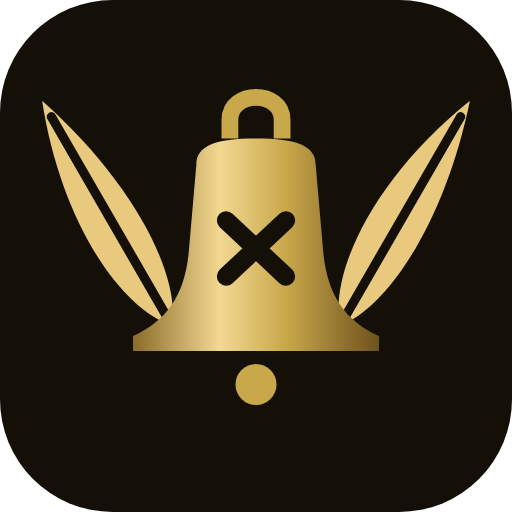
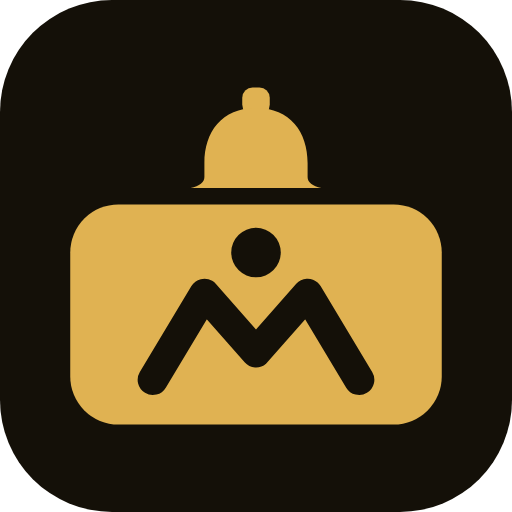
feat: marca maleta com sino e pico, mais próxima de um portal de emprego
A maleta (trabalho) ganha um sino no lugar da alça (o chamado) e, recortado no corpo, o M de montanha que também é uma pessoa de braços erguidos (a vaga conquistada). Desenho chapado em uma cor (token --brand-metal por tema), recortes por máscara, favicon, PNGs, imagem de compartilhamento, ícone e abertura do app refeitos.

diff --git a/src/Monburan.Mobile/wwwroot/index.html b/src/Monburan.Mobile/wwwroot/index.html
@@ -19,21 +19,10 @@
     <div id="app">
         <!-- Tela de abertura: fica até o Blazor montar o app (o conteúdo de #app é substituído) -->
         <div class="app-splash" role="status" aria-label="Carregando o Monburan">
-            <svg class="app-splash__mark" viewBox="20 20 160 168" aria-hidden="true" focusable="false">
-                <!-- "O Chamado" completo: penas com barbas, sino gravado e o mar. Só o sino balança -->
-                <defs><linearGradient id="splash-bell" x1="0" y1="0" x2="1" y2="0"><stop offset="0" class="brand-mark__stop1" /><stop offset=".35" class="brand-mark__stop2" /><stop offset=".62" class="brand-mark__stop3" /><stop offset="1" class="brand-mark__stop4" /></linearGradient></defs>
-                <g transform="translate(76 128) rotate(-30)"><path class="brand-mark__vane" d="M0 -6 C-11 -20 -13 -52 0 -88 C11 -52 10 -20 0 -6 Z" /><path class="brand-mark__rachis" stroke-width="1.6" d="M0 4 L0 -84" /><path class="brand-mark__rachis" stroke-width="1.3" d="M0 -26 L-8 -33 M0 -42 L-9.5 -50 M0 -58 L-7.5 -66 M0 -34 L8 -41 M0 -50 L8.5 -58 M0 -66 L5.5 -73" /></g>
-                <g transform="translate(124 128) rotate(30)"><path class="brand-mark__vane" d="M0 -6 C-11 -20 -13 -52 0 -88 C11 -52 10 -20 0 -6 Z" /><path class="brand-mark__rachis" stroke-width="1.6" d="M0 4 L0 -84" /><path class="brand-mark__rachis" stroke-width="1.3" d="M0 -26 L-8 -33 M0 -42 L-9.5 -50 M0 -58 L-7.5 -66 M0 -34 L8 -41 M0 -50 L8.5 -58 M0 -66 L5.5 -73" /></g>
-                <g class="brand-mark__bell" transform="translate(100 98) scale(1.22) translate(-100 -98)">
-                    <path class="brand-mark__metal-line" stroke-width="3.2" d="M93 68 L93 63 C93 55 107 55 107 63 L107 68" />
-                    <path fill="url(#splash-bell)" d="M84 75 C84 70 89 68 100 68 C111 68 116 70 116 75 L118 98 C119 110 124 117 133 121 L133 125 L67 125 L67 121 C76 117 81 110 82 98 Z" />
-                    <path class="brand-mark__engrave" stroke-width="1" d="M83.6 80 L116.4 80 M83.2 84.5 L116.8 84.5 M80 110 L120 110 M76.5 116 L123.5 116" />
-                    <path class="brand-mark__engrave" stroke-width="3" stroke-linecap="round" d="M93 91 L107 104 M107 91 L93 104" />
-                    <path class="brand-mark__metal-line" stroke-width="3.4" stroke-linecap="round" d="M64 125.5 L136 125.5" />
-                    <circle class="brand-mark__metal" cx="100" cy="133" r="4.4" />
-                </g>
-                <path class="brand-mark__metal-line" stroke-width="2" stroke-linecap="round" d="M44 168 C60 162 76 172 100 166 C124 160 140 172 156 166" />
-                <path class="brand-mark__metal-line" stroke-width="1.2" stroke-linecap="round" opacity=".55" d="M58 176 C72 172 84 179 100 175 C116 171 128 179 142 176" />
+            <svg class="app-splash__mark" viewBox="0 0 64 64" aria-hidden="true" focusable="false">
+                <!-- A marca; só o sino balança -->
+                <defs><mask id="splash-cut" maskUnits="userSpaceOnUse" x="0" y="0" width="64" height="64"><rect width="64" height="64" fill="#fff" /><circle cx="32" cy="30" r="3.6" fill="#000" /><path d="M17 48.5 L24.5 36 L32 44.5 L39.5 36 L47 48.5" fill="none" stroke="#000" stroke-width="4.4" stroke-linecap="round" stroke-linejoin="round" /></mask></defs>
+                <g class="brand-mark__metal" transform="translate(0 1.5)"><g class="brand-mark__bell"><rect x="30" y="6" width="4" height="4" rx="1.5" /><path d="M32 9 C27 9 24.5 12.5 24.5 17 V19 C24.5 19.8 23.8 20.3 22.5 20.6 H41.5 C40.2 20.3 39.5 19.8 39.5 19 V17 C39.5 12.5 37 9 32 9Z" /></g><rect x="5" y="23" width="54" height="32" rx="7" mask="url(#splash-cut)" /></g>
             </svg>
             <p class="app-splash__name">Monburan</p>
             <p class="app-splash__tagline">palavra dada.</p>

diff --git a/src/Monburan.Web/wwwroot/tokens.css b/src/Monburan.Web/wwwroot/tokens.css
@@ -142,15 +142,8 @@
         --neutral-bg: rgb(80 60 30 / 7%);
         --brand-tx: var(--gold-d);
         --brand-bg: var(--gold-soft);
-        /* Marca (O Chamado): no tema claro o sino é bronze escuro, com a gravação em pergaminho */
-        --brand-feather: #8A5500;
-        --brand-rachis: #F8F3E8;
-        --brand-metal: #5A3200;
-        --brand-bell-1: #3E2300;
-        --brand-bell-2: #8A5A1E;
-        --brand-bell-3: #5A3200;
-        --brand-bell-4: #2E1A00;
-        --brand-engrave: #F2EBD9;
+        /* Cor da marca (maleta e sino): bronze no tema claro */
+        --brand-metal: #8A5500;
         --shadow-sm: 0 2px 8px rgb(80 40 0 / 6%);
         --shadow-md: 0 8px 28px rgb(80 40 0 / 10%);
         --shadow-lg: 0 24px 60px rgb(80 40 0 / 14%), 0 4px 16px rgb(80 40 0 / 6%);
@@ -207,15 +200,8 @@
         --neutral-bg: rgb(255 255 255 / 6%);
         --brand-tx: var(--gold-d);
         --brand-bg: var(--gold-soft);
-        /* Marca (O Chamado): sino de ouro polido, penas claras e gravação em tinta */
-        --brand-feather: #E8C97D;
-        --brand-rachis: #141008;
-        --brand-metal: #C9A84C;
-        --brand-bell-1: #8A6C2A;
-        --brand-bell-2: #F2D891;
-        --brand-bell-3: #C9A84C;
-        --brand-bell-4: #6E521C;
-        --brand-engrave: #141008;
+        /* Cor da marca (maleta e sino): ouro no tema escuro */
+        --brand-metal: #E0B252;
         --shadow-sm: 0 2px 10px rgb(0 0 0 / 35%);
         --shadow-md: 0 10px 32px rgb(0 0 0 / 45%);
         --shadow-lg: 0 28px 70px rgb(0 0 0 / 55%), 0 6px 20px rgb(0 0 0 / 35%);

diff --git a/src/Monburan.Web/wwwroot/shell.css b/src/Monburan.Web/wwwroot/shell.css
@@ -28,17 +28,7 @@
     .brand { display: inline-flex; min-height: var(--control-h); align-items: center; gap: var(--s-2); color: var(--tx); text-decoration: none; }
     .brand:hover { color: var(--tx); }
     .brand__mark { display: block; flex: 0 0 auto; width: 2.25rem; height: 2.25rem; }
-    /* Partes da marca (BrandMark): as cores mudam com o tema pelos tokens --brand-* */
-    .brand-mark__vane { fill: var(--brand-feather); }
-    .brand-mark__rachis { fill: none; stroke: var(--brand-rachis); stroke-linecap: round; }
-    .brand-mark__down { fill: none; stroke: var(--brand-feather); stroke-width: 2; stroke-linecap: round; }
     .brand-mark__metal { fill: var(--brand-metal); }
-    .brand-mark__metal-line { fill: none; stroke: var(--brand-metal); }
-    .brand-mark__engrave { fill: none; stroke: var(--brand-engrave); }
-    .brand-mark__stop1 { stop-color: var(--brand-bell-1); }
-    .brand-mark__stop2 { stop-color: var(--brand-bell-2); }
-    .brand-mark__stop3 { stop-color: var(--brand-bell-3); }
-    .brand-mark__stop4 { stop-color: var(--brand-bell-4); }
     .brand__copy { display: flex; flex-direction: column; line-height: var(--lh-tight); }
     .brand__copy strong { font-family: var(--f-display); font-size: var(--fs-md); font-weight: var(--fw-semibold); letter-spacing: 0.16em; text-transform: uppercase; }
     .brand__copy small { margin-top: 0.125rem; color: var(--tx-muted); font-family: Georgia, "Times New Roman", serif; font-size: var(--fs-sm); font-style: italic; }

diff --git a/src/Monburan.Mobile/wwwroot/app.css b/src/Monburan.Mobile/wwwroot/app.css
@@ -110,15 +110,8 @@ html[data-theme="dark"] {
     --neutral-bg: rgb(255 255 255 / 6%);
     --brand-tx: var(--gold-d);
     --brand-bg: var(--gold-soft);
-    /* Marca (O Chamado): sino de ouro polido, penas claras e gravação em tinta */
-    --brand-feather: #E8C97D;
-    --brand-rachis: #141008;
-    --brand-metal: #C9A84C;
-    --brand-bell-1: #8A6C2A;
-    --brand-bell-2: #F2D891;
-    --brand-bell-3: #C9A84C;
-    --brand-bell-4: #6E521C;
-    --brand-engrave: #141008;
+    /* Cor da marca (maleta e sino): ouro no tema escuro */
+    --brand-metal: #E0B252;
     --shadow-sm: 0 2px 10px rgb(0 0 0 / 35%);
     --shadow-md: 0 10px 32px rgb(0 0 0 / 45%);
     --shadow-lg: 0 28px 70px rgb(0 0 0 / 55%), 0 6px 20px rgb(0 0 0 / 35%);
@@ -174,15 +167,8 @@ html[data-theme="light"] {
     --neutral-bg: rgb(80 60 30 / 7%);
     --brand-tx: var(--gold-d);
     --brand-bg: var(--gold-soft);
-    /* Marca (O Chamado): no tema claro o sino é bronze escuro, com a gravação em pergaminho */
-    --brand-feather: #8A5500;
-    --brand-rachis: #F8F3E8;
-    --brand-metal: #5A3200;
-    --brand-bell-1: #3E2300;
-    --brand-bell-2: #8A5A1E;
-    --brand-bell-3: #5A3200;
-    --brand-bell-4: #2E1A00;
-    --brand-engrave: #F2EBD9;
+    /* Cor da marca (maleta e sino): bronze no tema claro */
+    --brand-metal: #8A5500;
     --shadow-sm: 0 2px 8px rgb(80 40 0 / 6%);
     --shadow-md: 0 8px 28px rgb(80 40 0 / 10%);
     --shadow-lg: 0 24px 60px rgb(80 40 0 / 14%), 0 4px 16px rgb(80 40 0 / 6%);

diff --git a/src/Monburan.Mobile/wwwroot/brand.css b/src/Monburan.Mobile/wwwroot/brand.css
@@ -1,15 +1,7 @@
-/* Identidade da marca no app: partes da marca "O Chamado" (tokens --brand-*, iguais aos da web) e a tela de
+/* Identidade da marca no app: a cor da marca (token --brand-metal, igual ao da web) e a tela de
    abertura mostrada enquanto o Blazor inicia dentro do WebView. */
 .brand-mark__icon { width: 1.75rem; height: 1.75rem; color: inherit; }
-.brand-mark__vane { fill: var(--brand-feather); }
-.brand-mark__rachis { fill: none; stroke: var(--brand-rachis); stroke-linecap: round; }
 .brand-mark__metal { fill: var(--brand-metal); }
-.brand-mark__metal-line { fill: none; stroke: var(--brand-metal); }
-.brand-mark__engrave { fill: none; stroke: var(--brand-engrave); }
-.brand-mark__stop1 { stop-color: var(--brand-bell-1); }
-.brand-mark__stop2 { stop-color: var(--brand-bell-2); }
-.brand-mark__stop3 { stop-color: var(--brand-bell-3); }
-.brand-mark__stop4 { stop-color: var(--brand-bell-4); }
 
 .app-splash {
     position: fixed;

diff --git a/DESIGN.md b/DESIGN.md
@@ -21,20 +21,18 @@ cor, ícone ou componente, procure aqui. As regras marcadas com ✔ são verific
   sino dourado. A marca fala de **jornada** (a montanha), **chamado** (o sino que anuncia que algo valioso foi
   encontrado) e **palavra cumprida** (o ouro que provou a verdade; "palavra dada."). A identidade é original: não usa personagens,
   nomes nem elementos visuais de nenhuma obra.
-- **Marca — "O Chamado":** o sino com a cruz gravada (o **X** que marca onde está o tesouro) entre duas penas que se
-  abrem em **M**; na versão completa, o mar embaixo (o caminho de volta). Penas de escriba porque a marca é sobre a
-  palavra registrada: a promessa feita na vaga e cumprida no processo.
-  - Versão **completa** (`wwwroot/brand/monburan-emblem.svg`): barbas nas penas, aros do sino e o mar; a partir de 64px.
-  - Versão **simplificada** (`wwwroot/brand/monburan-mark.svg`): penas lisas, traços mais grossos; ícones e até 64px.
-  - Nas telas, o componente `BrandMark` (web escolhe a versão pelo `Size`; o app usa a simplificada). Cores pelos
-    tokens `--brand-feather`, `--brand-rachis`, `--brand-metal`, `--brand-engrave` e `--brand-bell-1..4` (degradê do
-    sino): ouro polido no tema escuro, bronze sobre pergaminho no claro.
+- **Marca — maleta, sino e pico:** a **maleta** (o trabalho) com um **sino** pequeno no lugar da alça (o chamado da
+  oportunidade) e, recortado no corpo, o **Pico**: o M de montanha que também é uma pessoa de braços erguidos (a vaga
+  conquistada). Desenho chapado, em uma cor, legível em 16px.
+  - Fonte única: `wwwroot/brand/monburan-mark.svg`; nas telas, o componente `BrandMark` (web e app). Os recortes são
+    máscara (mostram o fundo de onde a marca estiver); a cor é o token `--brand-metal`: ouro #E0B252 no tema escuro,
+    bronze #8A5500 no claro.
   - Fora de uso: perfis de personagem ou qualquer figura reconhecível de obra existente.
 - **Assinatura:** marca + "MONBURAN" em Cinzel 600 caixa-alta espaçada + "palavra dada." em serifa itálica (`Brand`).
-- **Ícones do produto:** `favicon.svg` e PNGs (16, 32, 180, 192, 512 e *maskable*) com a marca simplificada sobre a
-  tinta #141008; imagem de compartilhamento `brand/og-image.png` (1200×630) com o emblema completo; no app,
+- **Ícones do produto:** `favicon.svg` e PNGs (16, 32, 180, 192, 512 e *maskable*) com a marca sobre a tinta
+  #141008; imagem de compartilhamento `brand/og-image.png` (1200×630); no app,
   `Resources/AppIcon` (fundo #141008) e `Resources/Splash` (fundo #0A0806).
-- **Carregamento:** só o sino balança, preso pela alça; as penas ficam paradas (`LoadingState`, telas de abertura e de
+- **Carregamento:** só o sino balança; a maleta fica parada (`LoadingState`, telas de abertura e de
   reconexão). Com movimento reduzido fica parado. Não confundir com o ícone de notificações (sino de contorno).
 
 ## Arquivos e camadas (web)
